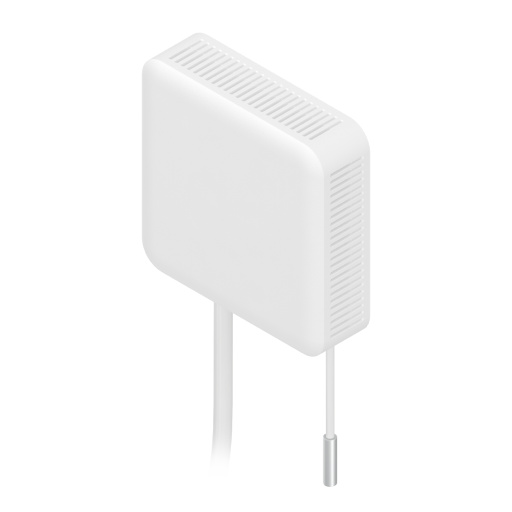
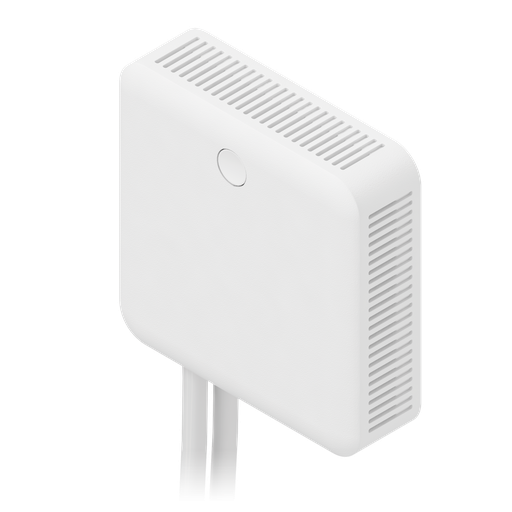
Update FPS-4-1-00 image and add humidity notes
Replace the device image with an updated official product render, and
add a Notes section warning that the exposed humidity value is not
reliable (the onboard humidity sensor does not function correctly on
this model) - only temperature should be trusted.

Changed region(s): [[0.2188, 0.3125, 0.8438, 0.9688], [0.3125, 0.0625, 0.75, 0.4062]]

diff --git a/docs/devices/FPS-4-1-00.md b/docs/devices/FPS-4-1-00.md
@@ -25,6 +25,11 @@ pageClass: device-page
 
 <!-- Notes BEGIN: You can edit here. Add "## Notes" headline if not already present. -->
 
+## Notes
+
+This device also exposes a `humidity` value, but the onboard humidity sensor does not function
+correctly on this model. Only the `temperature` reading should be considered accurate; ignore
+`humidity`.
 
 <!-- Notes END: Do not edit below this line -->
 